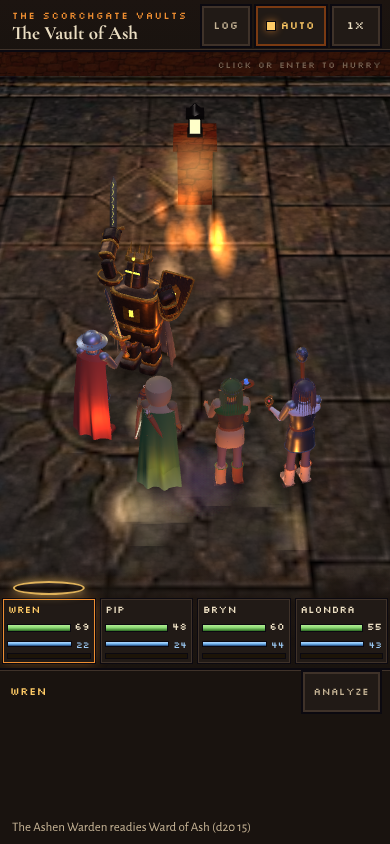
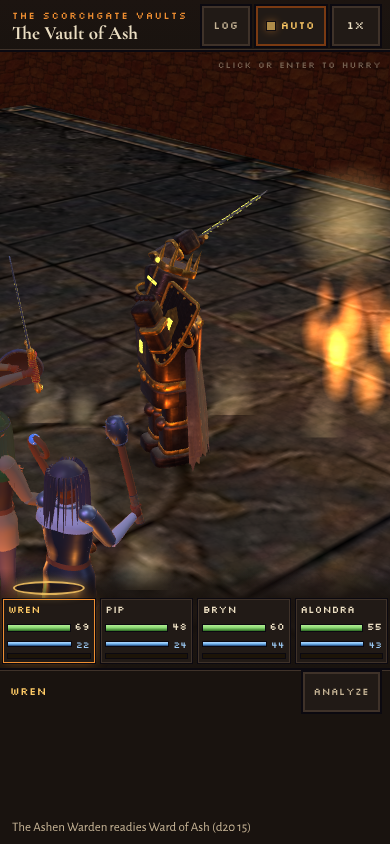
Fight: a closing foe stops a clear step short of the party's front line; every named Champion move swings to its own three-quarter camera (side-on to a foe and the hero it's aimed at; a wide one takes in the party), chosen by the fan of rays; stills redone
Claude-Session: https://claude.ai/code/session_01DgbUKYR9qmKyBdACUWGViw

diff --git a/world3d/battle/arena.js b/world3d/battle/arena.js
@@ -126,48 +126,31 @@ export const arena = {
     const open = (p) => { try { return P.walkable(P.M.px(p.x), P.M.py(p.z)); } catch (e) { return true; } };
     const clear = (p, q) => { try { return open(p) && P.sight.hit(p.x, p.y, p.z, q.x, q.y, q.z) > 0.97; } catch (e) { return true; } };
     let pos = null, look = at;
-    if (kind === 'close') {
-      // a charge at one hero: frame the ground between them (the foe crosses it) from a little further back
-      const tg = F.act && !F.act.self && F.act.target && this.heroes.get(F.act.target);
-      if (tg) at.lerp(tg.pos.clone().setY(at.y), 0.4);
-      const back = V3(-this.dir.x, 0, -this.dir.z), side = V3(this.dir.z, 0, -this.dir.x), r = Math.max(4.5, F.size.h * 3.4 + F.size.d * 1.3) * (tg ? 1.5 : 1);
-      // (a charge: well round to the side, so the hero it's aimed at doesn't stand in the way, and high enough that the
-      // ground right under the camera stays out of shot)
-      // each spot is scored by a fan of rays across the whole view (hub, November 21: one ray to the foe missed the rock
-      // or bush right beside the camera, and ground smeared across the lower half): the clearest view wins
-      let best = -1e9;
-      for (const k of [1, 1.25]) for (const lift of [0, 1.5, 3]) for (const sd of tg ? [1.7, -1.7, 1.2, -1.2, 1, -1, 0.4, -0.4] : [1, -1, 0.4, -0.4, 1.4, -1.4]) {
-        const p = at.clone().addScaledVector(back, r * k).addScaledVector(side, sd * r * k * 0.6); p.y = F.pos.y + Math.max(F.size.h * 1.1 + 0.9, tg ? r * 0.85 : 0) + lift;
-        if (!open(p)) continue;
-        const lk = at.clone(); lk.y -= p.distanceTo(at) * 0.07;
-        const sc = this.viewScore(p, lk, 36, p.distanceTo(at)) + (clear(p, at) ? 0 : -50) - lift * 0.15 - (k - 1);
-        if (sc > best) { best = sc; pos = p; }
-        if (sc >= 11.9) break;
-      }
-      pos = pos || at.clone().addScaledVector(back, r).setY(F.pos.y + F.size.h * 1.1 + 0.9);
-    } else {
-      // wide: straight back and a little up along the fight camera's own line, so the party stays at the bottom and the
-      // foes in the stage's open upper part, only more of the field round them
-      const fwd = V3(0, 0, -1).applyQuaternion(this.want.q), up0 = V3(0, 1, 0).applyQuaternion(this.want.q), fc = V3(); let nf = 0;
-      for (const G of this.foes.values()) if (!G.removed) { fc.add(G.home).y += G.size.h * 0.5; nf++; }
-      if (nf) fc.multiplyScalar(1 / nf); else fc.copy(this.want.pos).addScaledVector(fwd, 8);
-      pos = this.want.pos.clone().addScaledVector(fwd, -3).setY(this.want.pos.y + 1.2);
-      if (!clear(pos, fc)) pos = this.want.pos.clone().setY(this.want.pos.y + 1.0);
-      // the foes as high on the screen as in the fight's own view (zooming out alone slides them down to the middle)
-      const v0 = fc.clone().sub(this.want.pos), e0 = Math.atan2(v0.dot(up0), v0.dot(fwd)), rad = (f) => f * Math.PI / 360;
-      const e1 = Math.atan(Math.tan(e0) / Math.tan(rad(this.want.fov)) * Math.tan(rad(this.want.fov + 6)));
-      const qw = new THREE.Quaternion().setFromRotationMatrix(new THREE.Matrix4().lookAt(pos, fc, UP));
-      qw.multiply(new THREE.Quaternion().setFromAxisAngle(V3(1, 0, 0), -e1));
-      this.close = { t: 0, dur, pos, q: qw, fov: this.want.fov + 6 };
-      this.stage?.host.classList.add('f3-close');
-      return;
+    // a three-quarter view, chosen by a fan of rays across the whole view (hub, November 21: one ray missed the rock or
+    // bush beside the camera): 'close' frames the foe and the one it's aimed at (or just the foe, for a move on itself),
+    // 'wide' the foe and the whole party from further out
+    const hc = V3(); for (const h of this.heroes.values()) hc.add(h.home); hc.multiplyScalar(1 / Math.max(1, this.heroes.size));
+    const tg = F.act && !F.act.self && F.act.target && this.heroes.get(F.act.target);
+    if (kind === 'wide') at.lerp(hc.clone().setY(at.y), 0.45); else if (tg) at.lerp(tg.pos.clone().setY(at.y), 0.4);
+    // the way round from the party's side: a move at one hero is seen nearly side-on to the line between them (the two
+    // side by side, neither hiding the other); a move on itself from three-quarters; a wide one from a little round
+    const back = tg ? F.home.clone().sub(tg.pos).setY(0).normalize().negate() : V3(-this.dir.x, 0, -this.dir.z);
+    const turns = (tg ? [70, -70, 55, -55, 85, -85] : kind === 'wide' ? [30, -30, 15, -15, 45, -45] : [40, -40, 25, -25, 60, -60]).map((a) => a * Math.PI / 180);
+    const span = kind === 'wide' ? Math.max(6, F.pos.distanceTo(hc) * 1.2 + 3) : Math.max(4.5, F.size.h * 3.4 + F.size.d * 1.3) * (tg ? 1.3 : 1);
+    let best = -1e9;
+    for (const k of [1, 1.25]) for (const lift of [0, 1.5, 3]) for (const [ti, th] of turns.entries()) {
+      const p = at.clone().addScaledVector(back.clone().applyAxisAngle(UP, th), span * k);
+      p.y = F.pos.y + Math.max(F.size.h * 1.1 + 0.9, span * (kind === 'wide' ? 0.6 : tg ? 0.5 : 0.3)) + lift;
+      if (!open(p)) continue;
+      const lk = at.clone(); lk.y -= p.distanceTo(at) * 0.07;
+      const sc = this.viewScore(p, lk, kind === 'wide' ? 44 : 36, p.distanceTo(at)) + (clear(p, at) ? 0 : -50) - lift * 0.15 - (k - 1) - ti * 0.08;
+      if (sc > best) { best = sc; pos = p; }
+      if (sc >= 11.9) break;
     }
-    // close in: the foe stands in the stage's open upper part, not behind the turn strip across the screen's middle
-    // (aimed a little under it: about 8 degrees, so it sits some 190 px above the middle of a phone's 844)
-    // (the action a little above the screen's middle: the middle of the 3D view, the party's cards over the bottom)
-    if (kind === 'close') { look = at.clone(); look.y -= pos.distanceTo(at) * 0.07; }
+    pos = pos || at.clone().addScaledVector(back.clone().applyAxisAngle(UP, turns[0]), span).setY(F.pos.y + F.size.h * 1.1 + 0.9);
+    look = at.clone(); look.y -= pos.distanceTo(at) * 0.07;
     const q = new THREE.Quaternion().setFromRotationMatrix(new THREE.Matrix4().lookAt(pos, look, UP));
-    this.close = { t: 0, dur, pos, q, fov: kind === 'close' ? 36 : this.want.fov + 6 };
+    this.close = { t: 0, dur, pos, q, fov: kind === 'close' ? 36 : 44 };
     this.stage?.host.classList.add('f3-close'); // close or wide: the foes' plates and intents step aside till it ends
   },
   // how clear a camera at `pos` looking at `look` would see (0 to 12): twelve rays across its view, each counted clear
@@ -448,7 +431,9 @@ export const arena = {
     const M = momentFor(unit?.family || F.key, it.move, unit?.variant || null);
     F.act = { kind: 'attack', t: 0, target: h ? h.id : null, bit: false, bitT: null, self, moment: M,
       kmove: (M && F.fig.beast?.pose && ownMove(F, M.move)) || kitMove(F, it.move || it.name || '', self) };
-    if (M) { try { M.start?.(this.momentCtx(F)); } catch (e) { console.warn(e); } if (M.camera) this.momentCam(F, M.camera); }
+    // every named move has its camera (hub, November 23): a three-quarter view with the foe large, wide ones taking in the
+    // whole party, the rest the one it's aimed at
+    if (M) { try { M.start?.(this.momentCtx(F)); } catch (e) { console.warn(e); } this.momentCam(F, M.camera === 'wide' ? 'wide' : 'close'); }
     // headless stills only (check-moves --slow): told as a big move begins, so the clock can be held from its first frame
     if (M && this.onMoment) try { this.onMoment(F, unit, it); } catch (e) { console.warn(e); }
   },
@@ -665,7 +650,11 @@ function stepFoe(ar, F, d, t, heroCenter) {
     a.ku = mu;
     if (a.bit && after > 0.9) F.act = null;
     if (h && !a.self) {
-      const tp = h.pos.clone(), dv = F.home.clone().sub(tp).setY(0).normalize(); tp.addScaledVector(dv, 0.8 + F.size.d * 0.5);
+      const tp = h.pos.clone(), dv = F.home.clone().sub(tp).setY(0).normalize(); tp.addScaledVector(dv, 1.0 + F.size.d * 0.6);
+      // a clear step short of the party (hub, November 23): never in among the heroes, so from the camera the two sides
+      // never overlap; its body's back stays in front of the party's front line by about its own reach
+      let front = -1e9; for (const o of ar.heroes.values()) front = Math.max(front, o.home.dot(ar.dir));
+      const minAlong = front + 0.9 + F.size.d * 0.5, along = tp.dot(ar.dir); if (along < minAlong) tp.addScaledVector(ar.dir, minAlong - along);
       const go = seg(a.t, 0.18, 0.42), ret = a.bit ? seg(after, 0.35, 0.85) : 0;
       F.pos.copy(F.home).lerp(tp, go * (1 - ret)); F.pos.y = ar.heightAt(F.pos.x, F.pos.z, F.pos.y);
       walking = (go > 0 && go < 1) || (ret > 0 && ret < 1);
